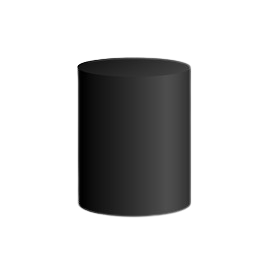
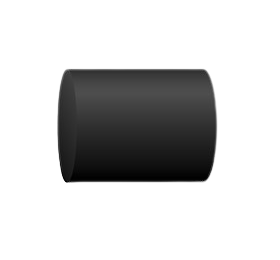
change cylin photo

Changed region(s): [[0.1846, 0.1846, 0.8, 0.8]]

diff --git a/index.html b/index.html
@@ -124,7 +124,7 @@
         // 圖形按鈕的獨立配置
         const buttonConfigs = [
             { id: 'shapeButton1', imageUrl: 'nobgrec.png' },
-            { id: 'shapeButton2', imageUrl: 'nobgcylin.png' },
+            { id: 'shapeButton2', imageUrl: 'nobgcylin2.png' },
             { id: 'shapeButton3', imageUrl: 'nobgsph.png' },
             { id: 'shapeButton4', imageUrl: 'nobgcone.png' }
         ];
